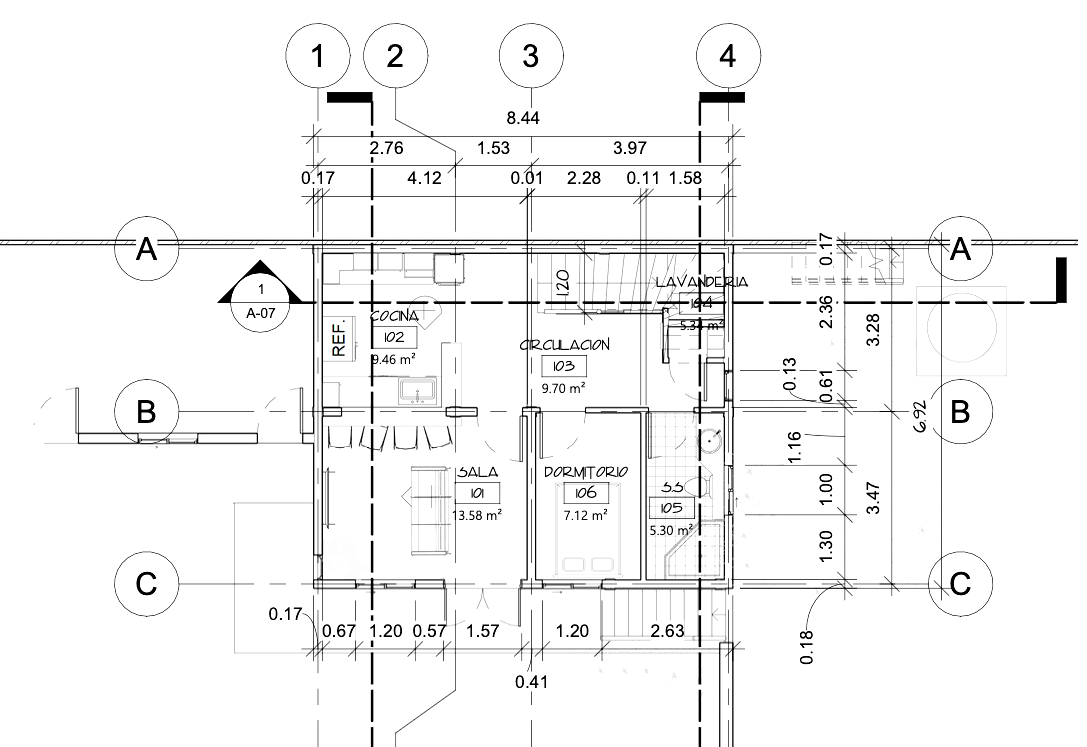
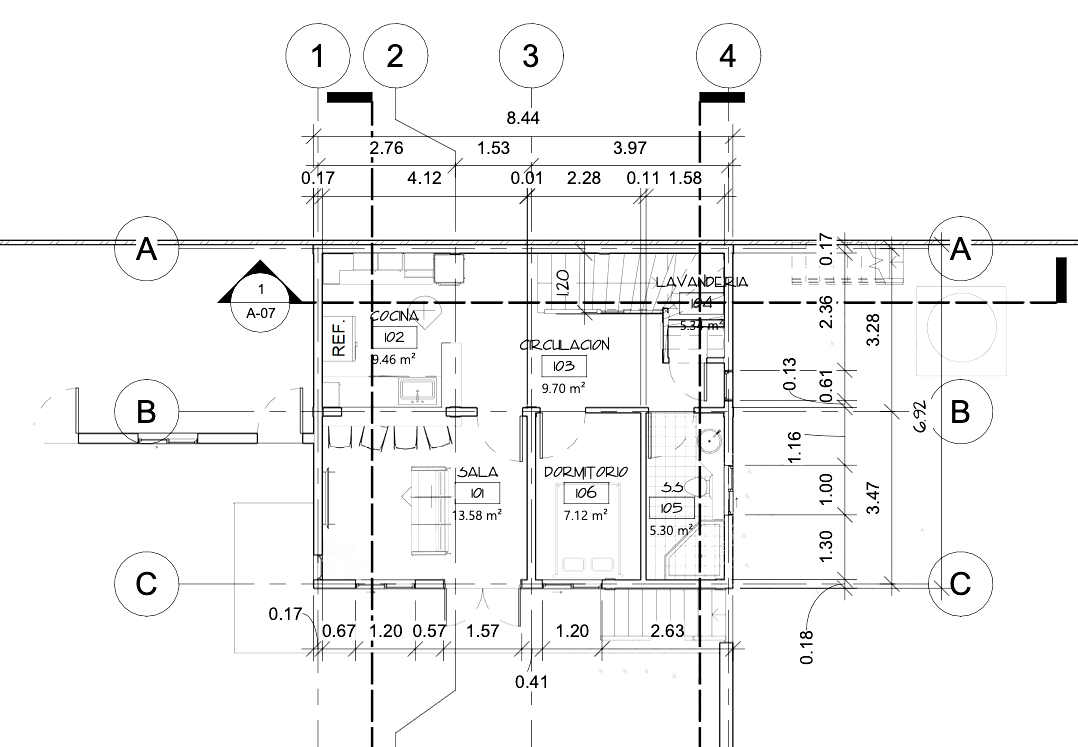
Finished Homepage design.

diff --git a/client/src/pages/About/ResumeSection.jsx b/client/src/pages/About/ResumeSection.jsx
@@ -4,7 +4,7 @@ import Image from "../../components/Image.jsx";
 import PrimaryLink from "../../components/Buttons/PrimaryLink.jsx";
 
 const resumeSectionStyle =
-  "min-h-fit h-screen grid grid-cols-3 xl:grid-cols-[1fr_2fr_2fr] grid-rows-[1fr_2fr] lg:grid-rows-[2fr_1fr_3fr] lg:grid-cols-[1fr_1fr_1fr] gap-4 xl:gap-2 px-16 py-12 pb-4 lg:px-12 lg:pt-8 lg:pb-2 lg:portrait:grid-rows-[auto_auto_1fr] lg:portrait:px-16 lg:portrait:py-16 lg:portrait:gap-4 3xl:p-20 md:portrait:gap-4 md:portrait:px-10 md:portrait:pt-10 md:portrait:pb-0 sm:portrait:min-h-fit sm:portrait:h-screen sm:flex sm:flex-col sm:portrait:flex sm:portrait:flex-col sm:portrait:px-12 sm:portrait:gap-4 xs:portrait:gap-4 sm:portrait:place-content-center sm:portrait:pt-8 sm:portrait:pb-8 xs:portrait:py-8 xs:portrait:px-8 xs-landscape:px-10 xs-landscape:pb-8 h-1260-w-1024:h-[50vh] h-568-w-320-landscape:grid-rows-[2fr_1fr] h-568-w-320-landscape:landscape:py-6 h-568-w-320-landscape:landscape:px-8 h-667-w-375-landscape-extra:gap-1 h-667-w-375-landscape-extra:py-6 h-667-w-375-landscape-extra:grid-rows-[2fr_1fr] 2xs:portrait:gap-2";
+  "min-h-fit h-screen grid grid-cols-3 xl:grid-cols-[1fr_2fr_2fr] grid-rows-[1fr_2fr] lg:grid-rows-[2fr_1fr_3fr] lg:grid-cols-[1fr_1fr_1fr] gap-4 xl:gap-2 px-16 py-12 pb-4 lg:px-12 lg:pt-8 lg:pb-2 lg:portrait:grid-rows-[auto_auto_1fr] lg:portrait:px-16 lg:portrait:py-16 lg:portrait:gap-4 3xl:p-20 md:portrait:gap-4 md:portrait:px-10 md:portrait:pt-10 md:portrait:pb-0 sm:portrait:min-h-fit sm:portrait:h-screen sm:flex sm:flex-col sm:portrait:flex sm:portrait:flex-col sm:portrait:px-12 sm:portrait:gap-4 xs:portrait:gap-4 sm:portrait:place-content-center sm:portrait:pt-8 sm:portrait:pb-8 xs:portrait:py-8 xs:portrait:px-8 xs-landscape:px-10 xs-landscape:pb-8 h-1260-w-1024:h-[50vh] ipad-surface-pro:portrait:h-[50vh] ipad-surface-pro:portrait:gap-2 ipad-surface-pro:portrait:p-12 ipad-surface-pro:portrait:pb-2 h-568-w-320-landscape:grid-rows-[2fr_1fr] h-568-w-320-landscape:landscape:py-6 h-568-w-320-landscape:landscape:px-8 h-667-w-375-landscape-extra:gap-1 h-667-w-375-landscape-extra:py-6 h-667-w-375-landscape-extra:grid-rows-[2fr_1fr] 2xs:portrait:gap-2 ipad-surface-pro-landscape:pt-20 ipad-surface-pro-landscape:pb-12";
 const resumeSubsection =
   "p-2 pt-0 flex flex-col gap-2 3xl:p-8 3xl:gap-4 lg:gap-2 lg:pb-2 2xl:text-[1.09rem] xl:text-[1.05rem] lg:text-base sm:gap-2 sm:min-h-fit sm:pb-0 xs:gap-1 xs:pb-4 2xs:pb-0 h-568-w-320-landscape:gap-1";
 const h1Style =

diff --git a/client/src/pages/Home/ContactSection.jsx b/client/src/pages/Home/ContactSection.jsx
@@ -1,11 +1,14 @@
+import contactImg from "/architectural-plan-4.png";
+import Image from "../../components/Image.jsx";
 import SecondaryLink from "../../components/Buttons/SecondaryLink.jsx";
 
 // Tailwind utility classes
 const contactStyle =
-  "h-screen min-h-fit p-24 xl:p-20 lg:p-16 mt-4 flex items-center border-b-8 border-lime-200 bg-zinc-900 place-content-center portrait:h-fit 3xl:h-[50vh] h-1260-w-1024:h-[50vh] h-1260-w-1024:max-h-fit xs:portrait:py-8 xs:portrait:px-6 md:landscape:h-fit";
+  "h-screen min-h-fit p-24 xl:p-20 lg:p-16 mt-4 flex items-center border-b-8 border-lime-200 bg-zinc-900 place-content-center portrait:h-fit 3xl:h-[50vh] h-1260-w-1024:h-[50vh] h-1260-w-1024:max-h-fit ipad-surface-pro:portrait:h-fit xs:portrait:py-8 xs:portrait:px-6 md:landscape:h-fit";
 const containerStyle =
-  "box-content mx-auto my-auto flex flex-col place-content-stretch gap-8 md:landscape:gap-4 3xl:gap-8 portrait:h-5/6 portrait:w-7/8 xs:portrait:w-full landscape:h-4/6 landscape:w-6/8 landscape:flex-row md:landscape:flex-col min-h-fit portrait:place-content-center ipad-surface-pro:portrait:h-[80vh]";
-const contactImageStyle = "min-h-[40vh] basis-1/3 rounded-2xl bg-white";
+  "box-content mx-auto my-auto flex flex-col place-content-stretch gap-8 md:landscape:gap-4 3xl:gap-8 portrait:h-5/6 portrait:w-7/8 xs:portrait:w-full landscape:h-4/6 landscape:w-6/8 landscape:flex-row md:landscape:flex-col min-h-fit portrait:place-content-center ipad-surface-pro:portrait:h-[80vh] ipad-surface-pro:portrait:h-fit";
+const contactImageStyle =
+  "min-h-[40vh] basis-1/3 rounded-2xl bg-white overflow-hidden ipad-surface-pro:portrait:min-h-[20vh] portrait:basis-0 md:landscape:basis-0";
 const textContainerStyle =
   "min-h-fit basis-2/3 rounded-2xl bg-white p-8 pr-12 flex flex-col gap-4 portrait:pr-8 max-h-fit xs:portrait:p-4";
 const textBoxStyle = "flex flex-col gap-2 pb-4";
@@ -19,7 +22,9 @@ const ContactSection = () => {
     <>
       <section id="contact" className={contactStyle}>
         <div className={containerStyle}>
-          <div id="contactImage" className={contactImageStyle}></div>
+          <div id="contactImage" className={contactImageStyle}>
+            <Image src={contactImg} objectFit="cover" />
+          </div>
           <div className={textContainerStyle}>
             <div className={textBoxStyle}>
               <h3 className={titleStyle}>Let&apos;s work together</h3>

diff --git a/client/tailwind.config.js b/client/tailwind.config.js
@@ -87,6 +87,9 @@ export default {
         "ipad-surface-pro": {
           raw: "(max-width: 1025px) and (min-width: 900px) and (max-height: 1370px) and (min-height: 1360px) and (orientation: portrait)",
         },
+        "ipad-surface-pro-landscape": {
+          raw: "(max-height: 1025px) and (min-height: 900px) and (max-width: 1370px) and (min-width: 1360px) and (orientation: landscape)",
+        },
         // ! Specific for 'lg' to 'md' screens on portrait orientation
         "lg-md-portrait": {
           raw: "(max-width: 1025px) and (min-height: 1024px) and (max-height: 1368px) and (orientation: portrait)",
